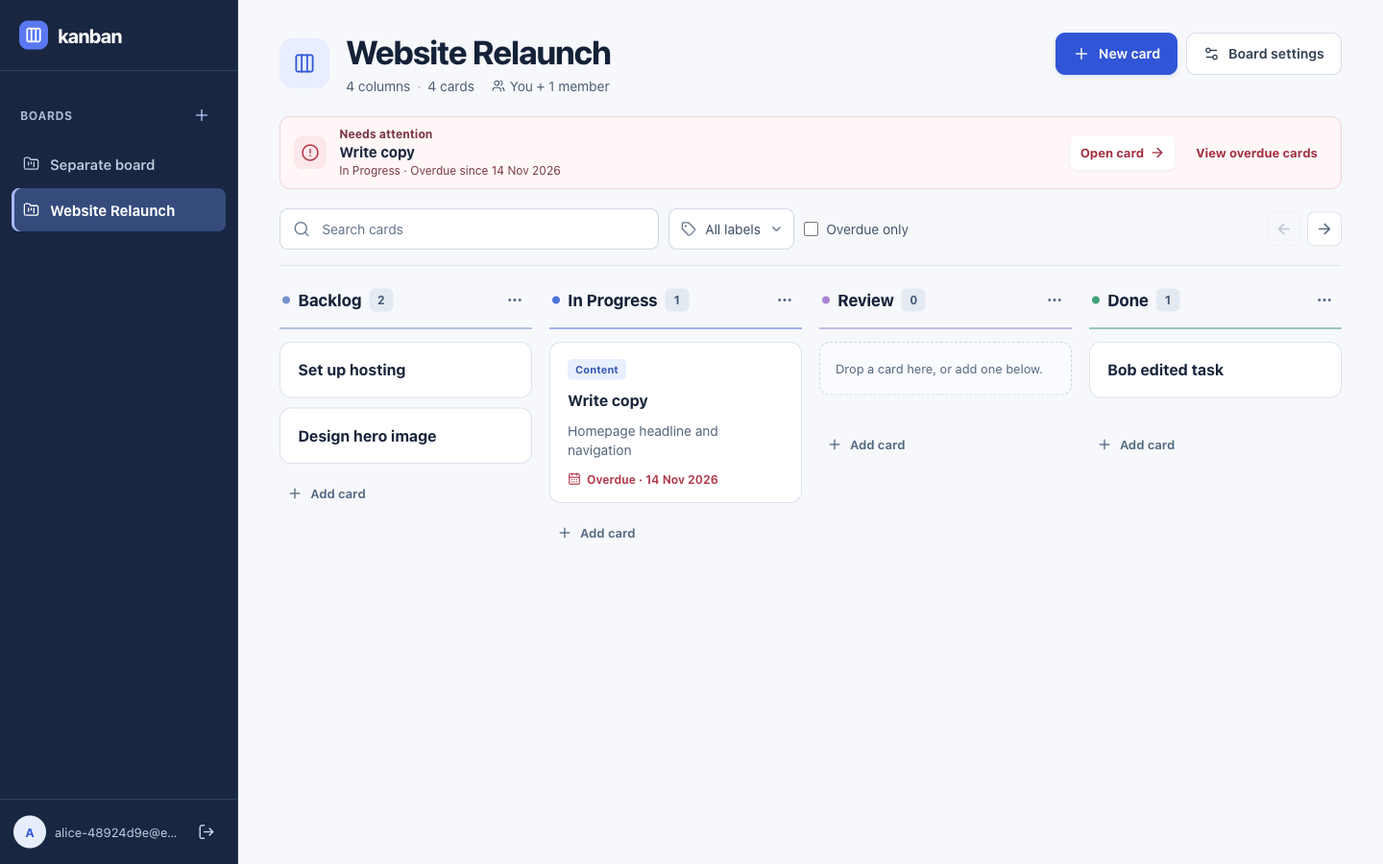
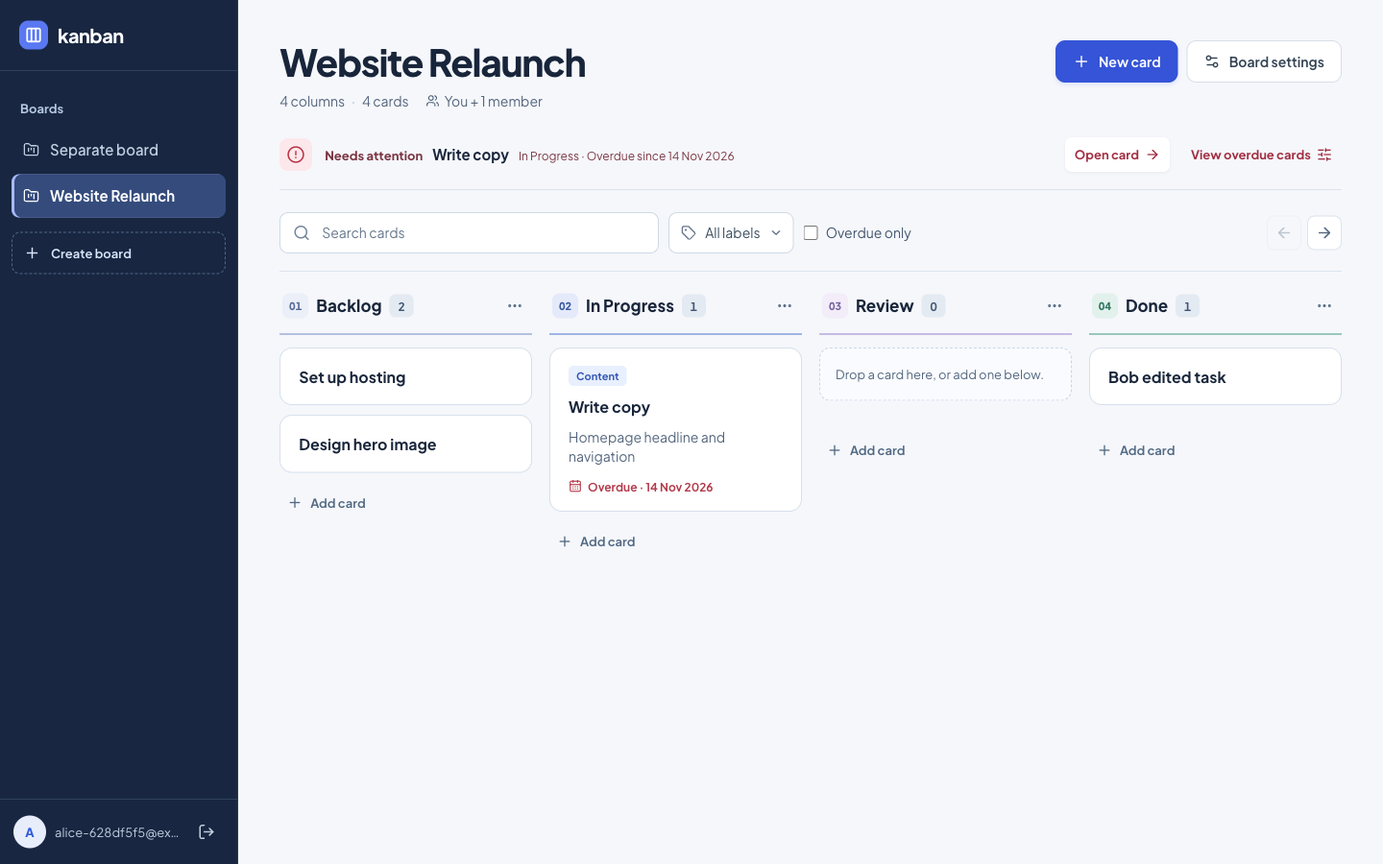
Refine Kanban workspace design

diff --git a/web/src/styles.css b/web/src/styles.css
@@ -1,18 +1,18 @@
 :root {
-  font-family: Inter, ui-sans-serif, -apple-system, BlinkMacSystemFont, "Segoe UI", sans-serif;
-  color: #142238;
-  background: #f7f8fb;
+  font-family: "Plus Jakarta Sans Variable", ui-sans-serif, -apple-system, BlinkMacSystemFont, "Segoe UI", sans-serif;
+  color: #18253a;
+  background: #f5f7fb;
   font-synthesis: none;
   text-rendering: optimizeLegibility;
   -webkit-font-smoothing: antialiased;
   --surface: #fff;
-  --canvas: #f7f8fb;
+  --canvas: #f5f7fb;
   --column: #f1f4f8;
-  --ink: #17243a;
-  --muted: #4c5e75;
-  --line: #e0e6ee;
-  --blue: #3155d7;
-  --blue-dark: #2545ba;
+  --ink: #18253a;
+  --muted: #516279;
+  --line: #dce4ee;
+  --blue: #3554d7;
+  --blue-dark: #2946be;
   --blue-wash: #e8edff;
   --danger: #b73344;
 }
@@ -97,11 +97,12 @@ button, input, textarea, select { -webkit-tap-highlight-color: transparent; }
 .sidebar .wordmark { color: #fff; }
 .sidebar .wordmark-symbol { background: #5978f1; }
 .sidebar-section { flex: 1; min-height: 0; padding: 30px 12px 16px; overflow-y: auto; }
-.sidebar-section-head { display: flex; align-items: center; justify-content: space-between; gap: 8px; padding: 0 9px 12px; color: #a9bbd2; font-size: 12px; font-weight: 720; letter-spacing: .04em; text-transform: uppercase; }
-.sidebar-section-head .icon-button { width: 32px; height: 32px; color: #b8caff; }
+.sidebar-section-head { display: flex; align-items: center; justify-content: space-between; gap: 8px; padding: 0 9px 13px; color: #b7c9e2; font-size: 13px; font-weight: 700; }
 .sidebar .icon-button:hover:not(:disabled) { background: #30415c; color: #fff; }
 .nav-board { transition: background .18s ease, color .18s ease; }
 .board-nav { display: grid; gap: 3px; }
+.sidebar-create { display: flex; align-items: center; gap: 11px; width: 100%; min-height: 44px; margin-top: 15px; padding: 10px 12px; border: 1px dashed #506587; border-radius: 9px; background: transparent; color: #dce7fa; text-align: left; font-size: 13px; font-weight: 650; transition: background .18s ease, border-color .18s ease; }
+.sidebar-create:hover { border-color: #819be1; background: #263a57; }
 .nav-board { display: flex; align-items: center; gap: 11px; width: 100%; min-height: 45px; padding: 11px 12px; border: 0; border-radius: 8px; background: transparent; color: #c1cfe1; text-align: left; text-decoration: none; font-size: 15px; font-weight: 560; }
 .nav-board:hover { background: #263a57; color: #fff; }
 .nav-board.active { background: #344b7c; color: #fff; font-weight: 680; box-shadow: inset 3px 0 #a8b9ff; }
@@ -114,24 +115,23 @@ button, input, textarea, select { -webkit-tap-highlight-color: transparent; }
 .mini-avatar { width: 28px; height: 28px; font-size: 11px; }
 .account-email { min-width: 0; flex: 1; overflow: hidden; text-overflow: ellipsis; white-space: nowrap; color: #c1cfe1; font-size: 13px; }
 .mobile-header, .mobile-close, .sidebar-scrim { display: none; }
-.workspace { min-width: 0; padding: 34px clamp(24px, 3vw, 52px) 58px; }
-.workspace-header { display: flex; align-items: flex-start; justify-content: space-between; gap: 24px; margin-bottom: 23px; }
+.workspace { min-width: 0; padding: 42px clamp(24px, 3vw, 52px) 58px; }
+.workspace-header { display: flex; align-items: flex-start; justify-content: space-between; gap: 24px; margin-bottom: 29px; }
 .header-copy { min-width: 0; }
-.board-heading { display: flex; align-items: center; gap: 17px; min-width: 0; }
-.board-emblem { display: grid; place-items: center; width: 52px; height: 52px; flex: none; border-radius: 13px; background: #e8edff; color: var(--blue); }
-.workspace-header h1 { margin: 0; overflow-wrap: anywhere; font-size: clamp(29px, 2.4vw, 36px); line-height: 1.14; letter-spacing: -.03em; font-weight: 750; }
+.board-heading { display: grid; gap: 2px; min-width: 0; }
+.workspace-header h1 { margin: 0; overflow-wrap: anywhere; font-size: clamp(31px, 2.7vw, 41px); line-height: 1.14; letter-spacing: -.035em; font-weight: 760; }
 .board-meta { display: flex; align-items: center; flex-wrap: wrap; gap: 7px; margin: 8px 0 0; color: var(--muted); font-size: 14px; }
 .board-meta > span { color: #a9b3bf; }
 .board-meta .team-count { display: inline-flex; align-items: center; gap: 5px; margin-left: 11px; color: var(--muted); }
 .header-actions { display: flex; align-items: center; gap: 9px; }
 .manage-button { margin: 0; }
-.attention-note { display: flex; align-items: center; gap: 13px; margin: 0 0 20px; padding: 10px 14px; border: 1px solid #d8e2f6; border-radius: 11px; background: #f2f6ff; color: #2d456f; }
-.attention-note.is-overdue { border-color: #f0d5da; background: #fff7f8; color: #7a3542; }
+.attention-note { display: flex; align-items: center; gap: 13px; margin: 0 0 23px; padding: 0 0 18px; border-bottom: 1px solid #dce4ee; color: #2d456f; }
+.attention-note.is-overdue { color: #7a3542; }
 .attention-symbol { display: grid; place-items: center; width: 34px; height: 34px; flex: none; border-radius: 9px; background: #e2eaff; color: var(--blue); }
 .is-overdue .attention-symbol { background: #fce7eb; color: #b73344; }
-.attention-copy { display: grid; gap: 2px; flex: 1; min-width: 0; }
-.attention-copy strong { font-size: 12px; font-weight: 740; }
-.attention-copy p { margin: 0; color: var(--ink); font-size: 15px; line-height: 1.3; font-weight: 700; overflow-wrap: anywhere; }
+.attention-copy { display: flex; align-items: baseline; flex-wrap: wrap; column-gap: 10px; row-gap: 2px; flex: 1; min-width: 0; }
+.attention-copy strong { font-size: 13px; font-weight: 740; }
+.attention-copy p { margin: 0; color: var(--ink); font-size: 15px; line-height: 1.35; font-weight: 700; overflow-wrap: anywhere; }
 .attention-copy span { font-size: 12px; line-height: 1.4; }
 .attention-actions { display: flex; align-items: center; gap: 12px; flex: none; }
 .attention-actions button { display: inline-flex; align-items: center; gap: 6px; min-height: 36px; padding: 7px 10px; border: 0; border-radius: 7px; background: transparent; color: var(--blue); font-size: 13px; font-weight: 700; }
@@ -139,7 +139,7 @@ button, input, textarea, select { -webkit-tap-highlight-color: transparent; }
 .is-overdue .attention-actions button { color: #a12c3f; }
 .is-overdue .attention-actions button:hover { background: #f9e9ec; }
 .attention-actions .attention-open { background: #fff; box-shadow: 0 1px 3px #1d2b3d12; }
-.board-toolbar { display: flex; align-items: center; justify-content: space-between; gap: 16px; margin-bottom: 18px; padding-bottom: 16px; border-bottom: 1px solid #e2e7ef; }
+.board-toolbar { display: flex; align-items: center; justify-content: space-between; gap: 16px; margin-bottom: 18px; padding-bottom: 18px; border-bottom: 1px solid #dce4ee; }
 .filter-bar { display: flex; align-items: center; gap: 10px; flex: 1; min-width: 0; flex-wrap: wrap; }
 .search-field { display: flex; align-items: center; gap: 10px; width: min(100%, 395px); min-width: 220px; height: 43px; padding: 0 13px; border: 1px solid #cfd9e5; border-radius: 9px; background: white; color: #72859b; }
 .search-field:focus-within { border-color: #6b8cf1; outline: 3px solid #e4ebff; }
@@ -168,7 +168,7 @@ button, input, textarea, select { -webkit-tap-highlight-color: transparent; }
 .board-column.drop-target { background: #edf2ff; box-shadow: inset 0 0 0 2px #9db5f6; }
 .column-top { display: flex; align-items: center; justify-content: space-between; gap: 6px; min-height: 48px; margin-bottom: 13px; padding: 0 2px 11px 3px; border-bottom: 2px solid color-mix(in srgb, var(--stage-color) 42%, #dce3ee); }
 .column-title { display: flex; align-items: center; gap: 8px; min-width: 0; }
-.stage-dot { width: 8px; height: 8px; flex: none; border-radius: 50%; background: var(--stage-color); }
+.stage-index { display: inline-grid; place-items: center; flex: none; min-width: 27px; height: 26px; border-radius: 7px; background: color-mix(in srgb, var(--stage-color) 15%, white); color: color-mix(in srgb, var(--stage-color) 65%, #18253a); font-size: 11px; font-weight: 780; font-variant-numeric: tabular-nums; }
 .column-title h2 { min-width: 0; margin: 0; overflow-wrap: anywhere; font-size: 17px; line-height: 1.25; font-weight: 740; }
 .count { display: inline-grid; place-items: center; min-width: 25px; height: 24px; padding: 0 6px; border-radius: 6px; background: #e4eaf2; color: #425773; font-size: 12px; font-weight: 710; font-variant-numeric: tabular-nums; }
 .column-tools { display: flex; align-items: center; flex: none; }
@@ -181,7 +181,7 @@ button, input, textarea, select { -webkit-tap-highlight-color: transparent; }
 .mini-menu .danger-text { color: var(--danger); }
 .column-cards { display: grid; align-content: start; gap: 10px; min-height: 76px; }
 .column-empty { margin: 0; padding: 17px 16px; border: 1px dashed #cbd6e6; border-radius: 11px; background: #f9fbff; color: #51647d; font-size: 13px; line-height: 1.5; }
-.task-card { display: flex; flex-direction: column; align-items: flex-start; gap: 10px; width: 100%; padding: 17px 18px; border: 1px solid #dce3ed; border-radius: 12px; background: white; color: var(--ink); text-align: left; cursor: grab; transition: border-color .2s ease, box-shadow .2s ease, transform .2s cubic-bezier(.2,.8,.2,1); }
+.task-card { display: flex; flex-direction: column; align-items: flex-start; gap: 10px; width: 100%; padding: 18px 19px; border: 1px solid #d7e0eb; border-radius: 13px; background: white; color: var(--ink); text-align: left; cursor: grab; transition: border-color .2s ease, box-shadow .2s ease, transform .2s cubic-bezier(.2,.8,.2,1); }
 .task-card:hover { border-color: #aabce5; box-shadow: 0 8px 20px #24304816; transform: translateY(-2px); }
 .task-card:active { cursor: grabbing; transform: scale(.985); }
 .card-labels { display: flex; flex-wrap: wrap; gap: 5px; }
@@ -191,7 +191,7 @@ button, input, textarea, select { -webkit-tap-highlight-color: transparent; }
 .label-chip.green { background: #def5eb; color: #287357; }
 .label-chip.purple { background: #f0e9ff; color: #6d45a0; }
 .label-chip.amber { background: #fff1d8; color: #936019; }
-.card-title { width: 100%; overflow-wrap: anywhere; font-size: 16px; line-height: 1.4; font-weight: 710; }
+.card-title { width: 100%; overflow-wrap: anywhere; font-size: 16px; line-height: 1.4; font-weight: 700; }
 .card-description { display: -webkit-box; width: 100%; overflow: hidden; color: #52647b; font-size: 14px; line-height: 1.48; overflow-wrap: anywhere; -webkit-box-orient: vertical; -webkit-line-clamp: 2; }
 .card-due { display: inline-flex; align-items: center; gap: 6px; margin-top: 3px; color: #4e6077; font-size: 12px; }
 .card-due.overdue { color: #b33a4a; font-weight: 680; }
@@ -282,18 +282,15 @@ button, input, textarea, select { -webkit-tap-highlight-color: transparent; }
   .workspace { padding: 20px 16px 36px; }
   .workspace-header { flex-wrap: wrap; gap: 17px; margin-bottom: 21px; }
   .workspace-header h1 { font-size: 26px; }
-  .board-emblem { width: 45px; height: 45px; }
   .header-actions { width: 100%; padding-top: 0; }
   .filter-bar { gap: 8px; }
   .board-toolbar { flex-wrap: wrap; gap: 8px; }
   .filter-bar { flex-basis: 100%; }
-  .board-navigation { margin-left: auto; }
+  .board-navigation { display: none; }
   .search-field { width: 100%; max-width: none; }
-  .board-tools p { max-width: 70%; }
   .board-column { width: min(80vw, 310px); min-height: 320px; }
   .column-tools .icon-button { width: 40px; height: 44px; }
   .board-navigation .icon-button { width: 44px; height: 44px; }
-  .sidebar-section-head .icon-button { width: 44px; height: 44px; }
 }
 @media (max-width: 430px) {
   .auth-top { height: 64px; padding: 0 18px; }
@@ -302,13 +299,14 @@ button, input, textarea, select { -webkit-tap-highlight-color: transparent; }
   .auth-panel { padding: 26px 22px; }
   .auth-intro h1 { font-size: 27px; }
   .board-heading { gap: 11px; }
-  .board-emblem { width: 42px; height: 42px; }
   .workspace-header h1 { font-size: 24px; }
   .header-actions { flex-wrap: wrap; }
   .board-meta .team-count { margin-left: 0; }
-  .attention-note { flex-wrap: wrap; }
-  .attention-copy { flex-basis: calc(100% - 54px); }
-  .attention-actions { width: 100%; padding-left: 49px; flex-wrap: wrap; gap: 4px; }
+  .attention-note { display: grid; grid-template-columns: 34px minmax(0, 1fr) auto; column-gap: 10px; }
+  .attention-copy { display: grid; gap: 1px; }
+  .attention-actions { grid-column: 3; display: flex; gap: 3px; width: auto; padding: 0; }
+  .attention-actions button { justify-content: center; width: 35px; min-height: 35px; padding: 5px; }
+  .attention-actions button span { display: none; }
   .form-row { grid-template-columns: 1fr; }
   .settings-danger { align-items: flex-start; flex-direction: column; }
   .dialog-header, .dialog-body, .settings-panel { padding-left: 19px; padding-right: 19px; }

diff --git a/web/src/App.jsx b/web/src/App.jsx
@@ -239,13 +239,13 @@ export default function App() {
     <main id="main-content" className="workspace" tabIndex={-1}>
       <div className="mobile-header"><IconButton icon={Menu} label="Open navigation" onClick={() => setMobileOpen(true)} /><span className="wordmark"><span className="wordmark-symbol"><Columns3 size={17} strokeWidth={2.4} aria-hidden="true" /></span>kanban</span></div>
       {boardLoading ? <div className="board-loading" role="status">Loading board…</div> : boardError ? <div className="empty-workspace"><div className="empty-icon"><SlidersHorizontal size={26} aria-hidden="true" /></div><h1>Board unavailable</h1><p>{boardError}</p><button className="button secondary" onClick={() => { setBoardError(''); window.history.replaceState({}, '', '/'); }}>Back to boards</button></div> : !board ? <div className="empty-workspace"><div className="empty-icon"><FolderKanbanIcon /></div><h1>Bring your work together.</h1><p>Create a board to organize the next thing your team is building.</p><button className="button primary" onClick={() => openDialog({ type: 'createBoard' })}><Plus size={18} aria-hidden="true" />Create your first board</button></div> : <>
-        <header className="workspace-header"><div className="header-copy"><div className="board-heading"><span className="board-emblem" aria-hidden="true"><Columns3 size={23} strokeWidth={1.9} /></span><div><h1>{board.name}</h1><p className="board-meta">{board.columns.length} {board.columns.length === 1 ? 'column' : 'columns'} <span>·</span> {totalCount} {totalCount === 1 ? 'card' : 'cards'}{board.members.length > 0 && <span className="team-count"><Users size={14} aria-hidden="true" /> You + {board.members.length} {board.members.length === 1 ? 'member' : 'members'}</span>}</p></div></div></div><div className="header-actions"><button className="button primary new-card-button" disabled={!board.columns.length} title={board.columns.length ? 'Add a card to the first column' : 'Add a column first'} onClick={() => openDialog({ type: 'card', columnId: board.columns[0].id })}><Plus size={18} aria-hidden="true" />New card</button>{board.owner && <button className="button secondary manage-button" onClick={() => openDialog({ type: 'settings' })}><Settings2 size={17} aria-hidden="true" />Board settings</button>}</div></header>
-        {nextDue && <div className={`attention-note ${isOverdue(nextDue.due_date) ? 'is-overdue' : ''}`}><span className="attention-symbol">{isOverdue(nextDue.due_date) ? <CircleAlert size={19} aria-hidden="true" /> : <CalendarDays size={19} aria-hidden="true" />}</span><div className="attention-copy"><strong>{isOverdue(nextDue.due_date) ? 'Needs attention' : 'Coming up'}</strong><p>{nextDue.title}</p><span>{nextDue.columnName} · {isOverdue(nextDue.due_date) ? 'Overdue since ' : 'Due '}{formatDate(nextDue.due_date)}{upcoming.length > 1 ? ` · ${upcoming.length - 1} more with deadlines` : ''}</span></div><div className="attention-actions"><button type="button" className="attention-open" onClick={() => openDialog({ type: 'card', card: nextDue, columnId: nextDue.columnId })}>Open card <ArrowRight size={16} aria-hidden="true" /></button>{overdueCount > 0 && <button type="button" className="attention-filter" onClick={() => { setSearch(''); setLabelId(''); setOverdueOnly(true); boardRef.current?.scrollTo({ left: 0, behavior: 'smooth' }); }}>View overdue cards</button>}</div></div>}
+        <header className="workspace-header"><div className="header-copy"><div className="board-heading"><h1>{board.name}</h1><p className="board-meta">{board.columns.length} {board.columns.length === 1 ? 'column' : 'columns'} <span>·</span> {totalCount} {totalCount === 1 ? 'card' : 'cards'}{board.members.length > 0 && <span className="team-count"><Users size={14} aria-hidden="true" /> You + {board.members.length} {board.members.length === 1 ? 'member' : 'members'}</span>}</p></div></div><div className="header-actions"><button className="button primary new-card-button" disabled={!board.columns.length} title={board.columns.length ? 'Add a card to the first column' : 'Add a column first'} onClick={() => openDialog({ type: 'card', columnId: board.columns[0].id })}><Plus size={18} aria-hidden="true" />New card</button>{board.owner && <button className="button secondary manage-button" onClick={() => openDialog({ type: 'settings' })}><Settings2 size={17} aria-hidden="true" />Board settings</button>}</div></header>
+        {nextDue && <div className={`attention-note ${isOverdue(nextDue.due_date) ? 'is-overdue' : ''}`}><span className="attention-symbol">{isOverdue(nextDue.due_date) ? <CircleAlert size={19} aria-hidden="true" /> : <CalendarDays size={19} aria-hidden="true" />}</span><div className="attention-copy"><strong>{isOverdue(nextDue.due_date) ? 'Needs attention' : 'Coming up'}</strong><p>{nextDue.title}</p><span>{nextDue.columnName} · {isOverdue(nextDue.due_date) ? 'Overdue since ' : 'Due '}{formatDate(nextDue.due_date)}{upcoming.length > 1 ? ` · ${upcoming.length - 1} more with deadlines` : ''}</span></div><div className="attention-actions"><button type="button" className="attention-open" aria-label="Open card" title="Open card" onClick={() => openDialog({ type: 'card', card: nextDue, columnId: nextDue.columnId })}><span>Open card</span><ArrowRight size={16} aria-hidden="true" /></button>{overdueCount > 0 && <button type="button" className="attention-filter" aria-label="View overdue cards" title="View overdue cards" onClick={() => { setSearch(''); setLabelId(''); setOverdueOnly(true); boardRef.current?.scrollTo({ left: 0, behavior: 'smooth' }); }}><span>View overdue cards</span><SlidersHorizontal size={16} aria-hidden="true" /></button>}</div></div>}
         <div className="board-toolbar"><FilterBar search={search} setSearch={setSearch} labelId={labelId} setLabelId={setLabelId} overdueOnly={overdueOnly} setOverdueOnly={setOverdueOnly} labels={board.labels} hasFilters={hasFilters} onClear={clearFilters} /><div className="board-navigation"><IconButton icon={ArrowLeft} label="Scroll columns left" disabled={!scrollState.left} onClick={() => boardRef.current?.scrollBy({ left: -350, behavior: 'smooth' })} /><IconButton icon={ArrowRight} label="Scroll columns right" disabled={!scrollState.right} onClick={() => boardRef.current?.scrollBy({ left: 350, behavior: 'smooth' })} /></div></div>
         {hasFilters && <p className="filter-count" role="status">{visibleCount} of {totalCount} cards shown</p>}
         {hasFilters && visibleCount === 0 && <div className="filter-empty"><SlidersHorizontal size={19} aria-hidden="true" /><span>No cards match these filters.</span><button type="button" onClick={clearFilters}>Clear filters</button></div>}
         <div className="board-scroll" ref={boardRef} onScroll={(event) => { const rail = event.currentTarget; setScrollState({ left: rail.scrollLeft > 4, right: rail.scrollLeft + rail.clientWidth < rail.scrollWidth - 4 }); }} tabIndex={0} aria-label="Board columns">
-          <div className="board-columns">{board.columns.map((column, index) => <BoardColumn key={column.id} column={column} cards={visibleCards.get(column.id) || []} labels={board.labels} owner={board.owner} canMoveLeft={index > 0} canMoveRight={index < board.columns.length - 1} onAdd={(columnId, draftTitle = '') => openDialog({ type: 'card', columnId, draftTitle })} onQuickAdd={(columnId, title) => mutate(`/boards/${board.id}/cards`, 'POST', { column_id: columnId, title, description: '' }, 'Card added.')} onEdit={(card, columnId) => openDialog({ type: 'card', card, columnId })} onMove={moveCard} onReorder={reorderColumn} onRename={(target) => openDialog({ type: 'renameColumn', column: target })} onDelete={(target) => openDialog({ type: 'deleteColumn', column: target })} />)}{board.owner && <button className="add-column" onClick={() => openDialog({ type: 'createColumn' })}><Plus size={18} aria-hidden="true" />Add column</button>}</div>
+          <div className="board-columns">{board.columns.map((column, index) => <BoardColumn key={column.id} column={column} index={index} cards={visibleCards.get(column.id) || []} labels={board.labels} owner={board.owner} canMoveLeft={index > 0} canMoveRight={index < board.columns.length - 1} onAdd={(columnId, draftTitle = '') => openDialog({ type: 'card', columnId, draftTitle })} onQuickAdd={(columnId, title) => mutate(`/boards/${board.id}/cards`, 'POST', { column_id: columnId, title, description: '' }, 'Card added.')} onEdit={(card, columnId) => openDialog({ type: 'card', card, columnId })} onMove={moveCard} onReorder={reorderColumn} onRename={(target) => openDialog({ type: 'renameColumn', column: target })} onDelete={(target) => openDialog({ type: 'deleteColumn', column: target })} />)}{board.owner && <button className="add-column" onClick={() => openDialog({ type: 'createColumn' })}><Plus size={18} aria-hidden="true" />Add column</button>}</div>
         </div>
       </>}
     </main>

diff --git a/web/src/components.jsx b/web/src/components.jsx
@@ -71,16 +71,17 @@ export function Sidebar({ boards, selectedId, me, onSelect, onCreate, onSignOut,
     {mobileOpen && <button className="sidebar-scrim" type="button" aria-label="Close navigation" onClick={() => setMobileOpen(false)} />}
     <aside className={`sidebar ${mobileOpen ? 'open' : ''}`}>
       <div className="sidebar-brand"><span className="wordmark"><span className="wordmark-symbol"><Columns3 size={18} strokeWidth={2.4} aria-hidden="true" /></span>kanban</span><IconButton className="mobile-close" icon={X} label="Close navigation" onClick={() => setMobileOpen(false)} /></div>
-      <div className="sidebar-section"><div className="sidebar-section-head"><span>Boards</span><IconButton icon={Plus} label="Create board" onClick={onCreate} /></div>
+      <div className="sidebar-section"><div className="sidebar-section-head"><span>Boards</span></div>
         <nav aria-label="Boards" className="board-nav">{boards.map((item) => <a href={`/boards/${item.id}`} key={item.id} aria-current={selectedId === item.id ? 'page' : undefined} className={`nav-board ${selectedId === item.id ? 'active' : ''}`} onClick={(event) => { if (event.button !== 0 || event.metaKey || event.ctrlKey || event.shiftKey || event.altKey) return; event.preventDefault(); onSelect(item.id); setMobileOpen(false); }}><FolderKanban size={17} strokeWidth={1.8} aria-hidden="true" /><span>{item.name}</span></a>)}
           {boards.length === 0 && <p className="sidebar-empty">Your boards will appear here.</p>}</nav>
+        <button type="button" className="sidebar-create" onClick={onCreate}><Plus size={17} aria-hidden="true" />Create board</button>
       </div>
       <div className="sidebar-footer"><span className="avatar" aria-hidden="true">{me.email.slice(0, 1).toUpperCase()}</span><span className="account-email" title={me.email}>{me.email}</span><IconButton icon={LogOut} label="Sign out" onClick={onSignOut} /></div>
     </aside>
   </>;
 }
 
-export function BoardColumn({ column, cards, labels, owner, canMoveLeft, canMoveRight, onAdd, onQuickAdd, onEdit, onMove, onReorder, onRename, onDelete }) {
+export function BoardColumn({ column, index, cards, labels, owner, canMoveLeft, canMoveRight, onAdd, onQuickAdd, onEdit, onMove, onReorder, onRename, onDelete }) {
   const [menu, setMenu] = useState(false);
   const menuRef = useRef(null);
   const [dragOver, setDragOver] = useState(false);
@@ -109,7 +110,7 @@ export function BoardColumn({ column, cards, labels, owner, canMoveLeft, canMove
     if (id) onMove(id, column.id, index);
   };
   return <section className={`board-column ${dragOver ? 'drop-target' : ''}`} aria-labelledby={`column-${column.id}`} onDragOver={(event) => { event.preventDefault(); setDragOver(true); }} onDragLeave={(event) => { if (!event.currentTarget.contains(event.relatedTarget)) setDragOver(false); }} onDrop={(event) => drop(event, column.cards.length)}>
-    <div className="column-top"><div className="column-title"><span className="stage-dot" aria-hidden="true" /><h2 id={`column-${column.id}`}>{column.name}</h2><span className="count">{column.cards.length}</span></div>
+    <div className="column-top"><div className="column-title"><span className="stage-index" aria-hidden="true">{String(index + 1).padStart(2, '0')}</span><h2 id={`column-${column.id}`}>{column.name}</h2><span className="count">{column.cards.length}</span></div>
       {owner && <div className="column-tools"><div className="menu-wrap" ref={menuRef}><IconButton icon={Ellipsis} label={`${column.name} options`} aria-expanded={menu} onClick={() => setMenu(!menu)} />{menu && <div className="mini-menu"><button type="button" disabled={!canMoveLeft} onClick={() => { setMenu(false); onReorder(column.id, -1); }}>Move {column.name} left</button><button type="button" disabled={!canMoveRight} onClick={() => { setMenu(false); onReorder(column.id, 1); }}>Move {column.name} right</button><button type="button" onClick={() => { setMenu(false); onRename(column); }}>Rename column</button><button type="button" className="danger-text" onClick={() => { setMenu(false); onDelete(column); }}>Delete column</button></div>}</div></div>}
     </div>
     <div className="column-cards">{column.cards.length === 0 && <p className="column-empty">Drop a card here, or add one below.</p>}{cards.map((card) => {

diff --git a/web/index.html b/web/index.html
@@ -3,7 +3,7 @@
   <head>
     <meta charset="UTF-8" />
     <meta name="viewport" content="width=device-width, initial-scale=1.0" />
-    <meta name="theme-color" content="#f7f8fb" />
+    <meta name="theme-color" content="#f5f7fb" />
     <link rel="icon" type="image/svg+xml" href="/favicon.svg" />
     <meta name="description" content="A focused, collaborative Kanban workspace." />
     <title>Kanban</title>

diff --git a/web/src/main.jsx b/web/src/main.jsx
@@ -1,5 +1,6 @@
 import React from 'react';
 import { createRoot } from 'react-dom/client';
+import '@fontsource-variable/plus-jakarta-sans';
 import App from './App.jsx';
 import './styles.css';
 

diff --git a/tests/browser_visible.py b/tests/browser_visible.py
@@ -318,6 +318,10 @@ with sync_playwright() as playwright:
     assert alice.evaluate('document.documentElement.scrollWidth <= window.innerWidth'), 'Mobile page overflows horizontally'
     assert column(alice, 'Backlog').is_visible()
     alice.screenshot(path=str(SHOTS / 'mobile.png'), full_page=True)
+    alice.locator('.board-scroll').focus()
+    alice.keyboard.press('ArrowRight')
+    alice.wait_for_function("document.querySelector('.board-scroll').scrollLeft > 0")
+    alice.locator('.board-scroll').evaluate('(node) => node.scrollLeft = 0')
     alice.get_by_role('button', name='Open navigation').click()
     alice.locator('.mobile-close').click()
     step('Mobile board layout and navigation')
@@ -332,6 +336,7 @@ with sync_playwright() as playwright:
     column(alice, 'Review').get_by_role('button', name='Review options').click()
     alice.get_by_role('button', name='Delete column').click()
     alice.get_by_role('button', name='Delete column').last.click()
+    column(alice, 'Review').wait_for(state='detached')
     assert column(alice, 'Review').count() == 0
     column(alice, 'Backlog').get_by_role('button', name='Backlog options').click()
     alice.get_by_role('button', name='Delete column').click()

diff --git a/README.md b/README.md
@@ -8,7 +8,7 @@ A collaborative Kanban board with private accounts, owner-managed boards, and ca
 | --- | --- |
 | Server and API | Python 3 standard library (`http.server`) |
 | Database | SQLite (`sqlite3`) |
-| Frontend | React 19, Vite 8, CSS, Lucide React |
+| Frontend | React 19, Vite 8, CSS, Lucide React, locally bundled Plus Jakarta Sans |
 | Browser checks | Playwright in visible Google Chrome |
 
 Challenge #146 permits any web or mobile stack. OutSystems is an optional route, not a requirement. This implementation is a web app with persistent local storage and server-enforced permissions.
@@ -45,7 +45,7 @@ Open [http://127.0.0.1:5173](http://127.0.0.1:5173). Vite proxies `/api` to port
 
 - New boards start with To Do, In Progress and Done. Owners can add, rename, reorder and delete columns, and manage board labels and members.
 - Use **Add card** in a column to capture a title inline, then keep adding without leaving the board. Choose **More details** to carry the title into the full editor for a description, due date, labels and placement. Click a card to edit it. Drag a card onto another card or empty part of a column to move it, or choose its column and position in the editor. Reload to verify saved order.
-- Use the board arrows or a horizontal swipe to move between columns on a narrow screen. Column menus close with Escape or a click outside. Interface motion follows the device's reduced-motion preference.
+- Use the board arrows on desktop or a horizontal swipe on a narrow screen to move between columns. The board can also be scrolled with the keyboard. Column menus close with Escape or a click outside. Interface motion follows the device's reduced-motion preference.
 - Search titles and descriptions without case sensitivity. Label and overdue filters combine with search.
 - When a card is overdue or due within seven days, the board highlights the next deadline by card name and opens it directly. Overdue cards can still be filtered in one click. The main New card action starts a card in the first column.
 - After moving a card, use the temporary **Undo** action to restore its previous column and position.

diff --git a/TESTING.md b/TESTING.md
@@ -41,7 +41,7 @@ The browser script creates random `@example.com` test accounts in the disposable
 | Due dates and labels | Overdue flag appears and clears; next deadline opens its card; due-soon summary; board label creation and card attachment |
 | Finding cards | Case-insensitive description search; label and overdue filters together; no-match state |
 | Teams | Member sees and changes cards; owner sees member changes; member board/column/label/member API changes receive 403; non-member board request receives 404 |
-| Persistence and layout | Reload retains board and card positions; complete “In Progress” heading and four columns at 1440px; dialog animation respects reduced motion; sign-in, board, editor, settings and mobile screenshots; no page overflow at 320px; no browser page errors |
+| Persistence and layout | Reload retains board and card positions; complete “In Progress” heading and four columns at 1440px; dialog animation respects reduced motion; keyboard scrolling across mobile columns; sign-in, board, editor, settings and mobile screenshots; no page overflow at 320px; no browser page errors |
 
 The screenshot account names are visual placeholders; test accounts have random addresses in the disposable database.
 
